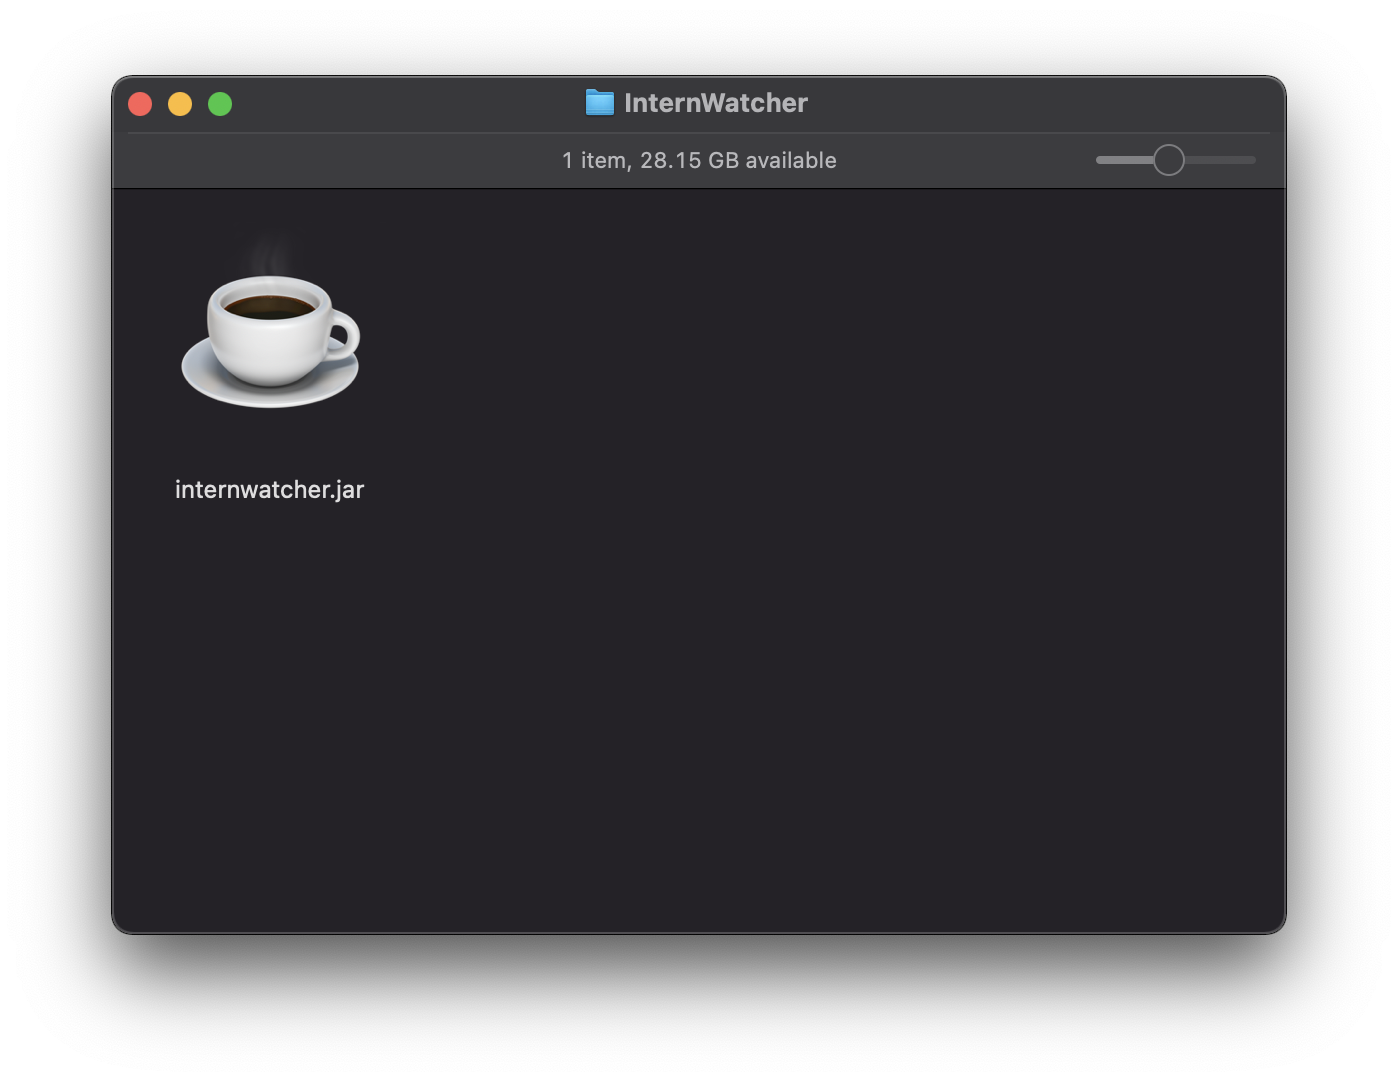
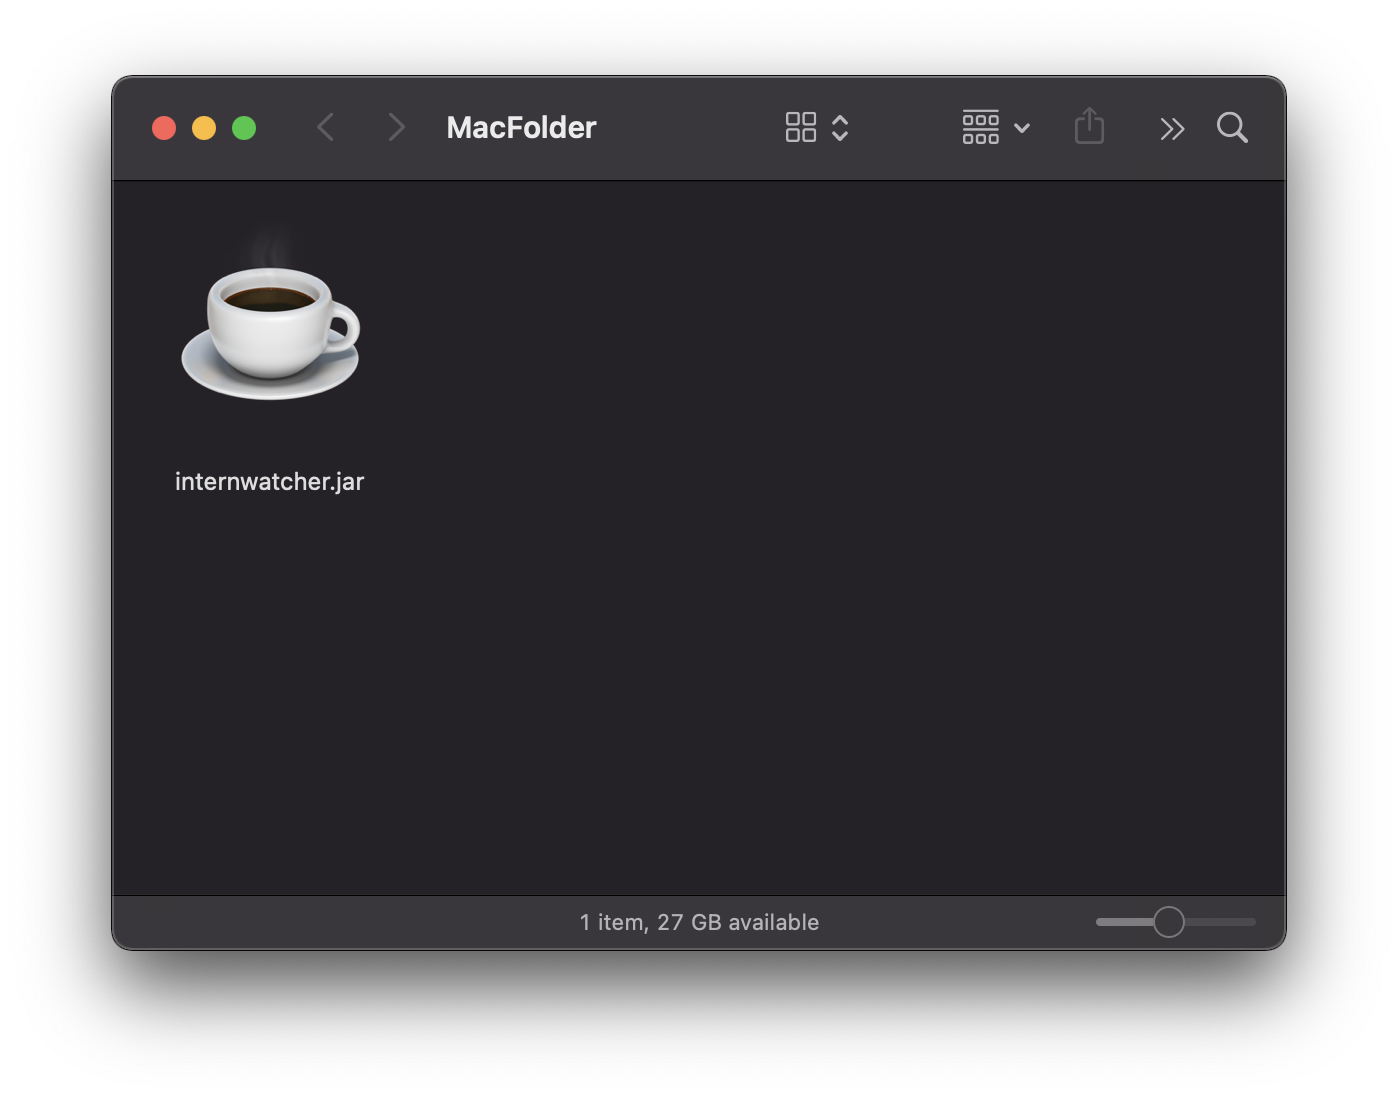
Update 2101 UG Images

diff --git a/docs/UserGuide2101.md b/docs/UserGuide2101.md
@@ -23,11 +23,11 @@ This user guide covers a quick walk-through on how to use this application, as w
 
 1. Ensure you have Java `11` or above installed on your computer. You can download it [here](https://www.oracle.com/java/technologies/downloads/#java11).
 
-Insert java screenshot with circle
+![DownloadJava](images/DownloadJava.png)
 
 2. Download the latest `internwatcher.jar` from [here](https://github.com/AY2122S1-CS2103T-F12-2/tp/releases/download/v1.4/internwatcher.jar).
 
-Insert picture ( keep don't discard)
+![DownloadApp](images/DownloadApp.png)
 
 3. Copy the file to the folder you want to use as the _home folder_ for your Intern Watcher.
 
